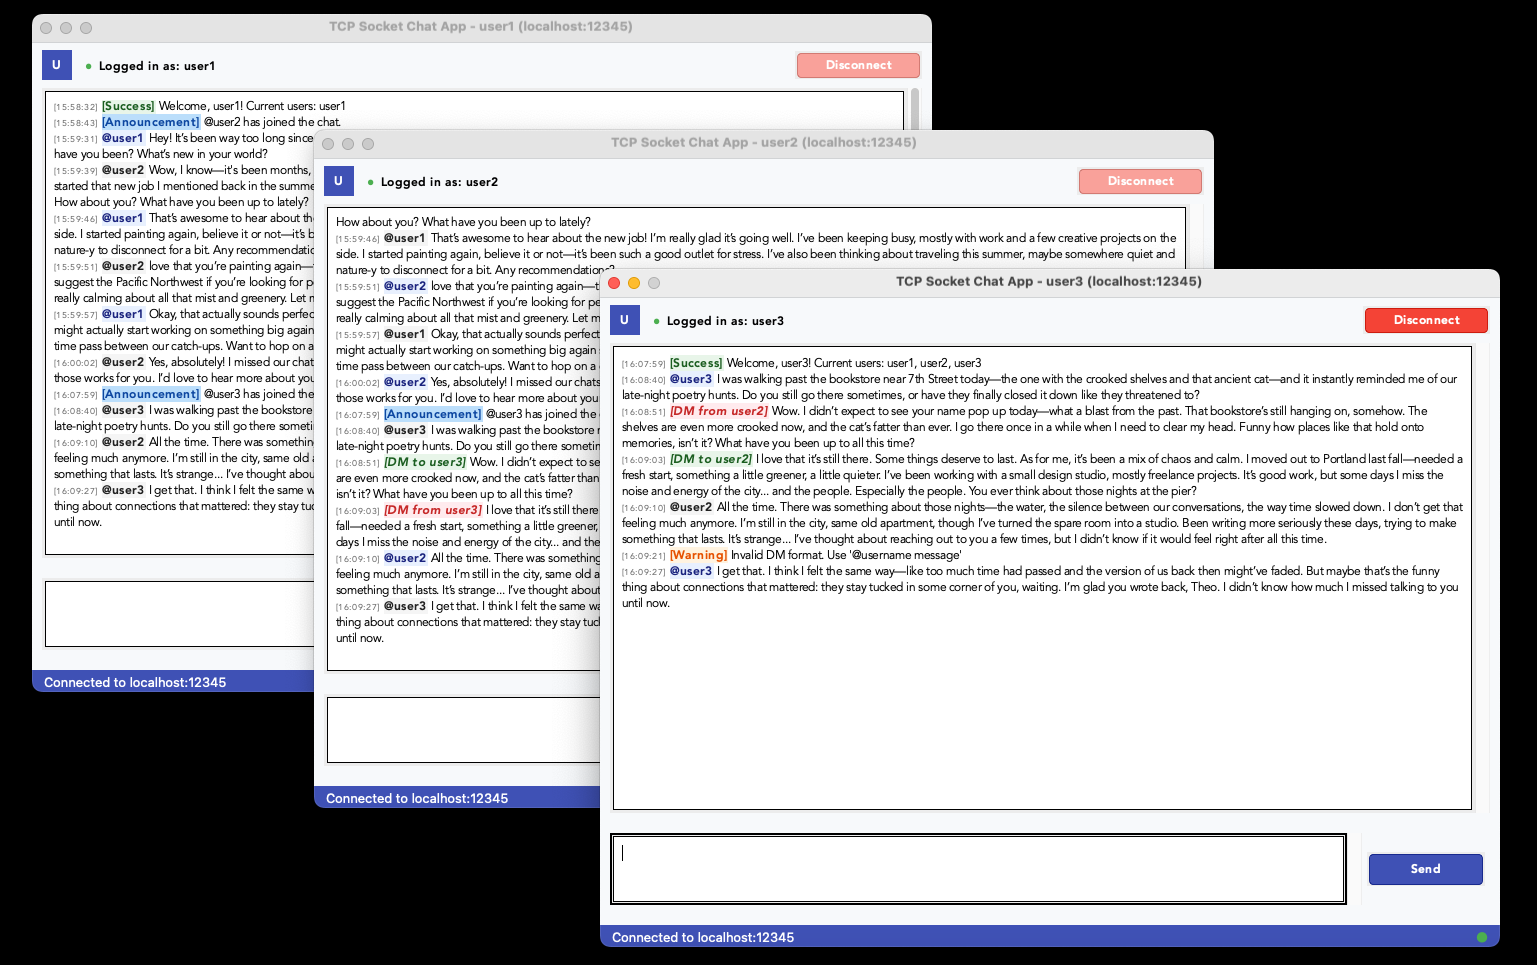
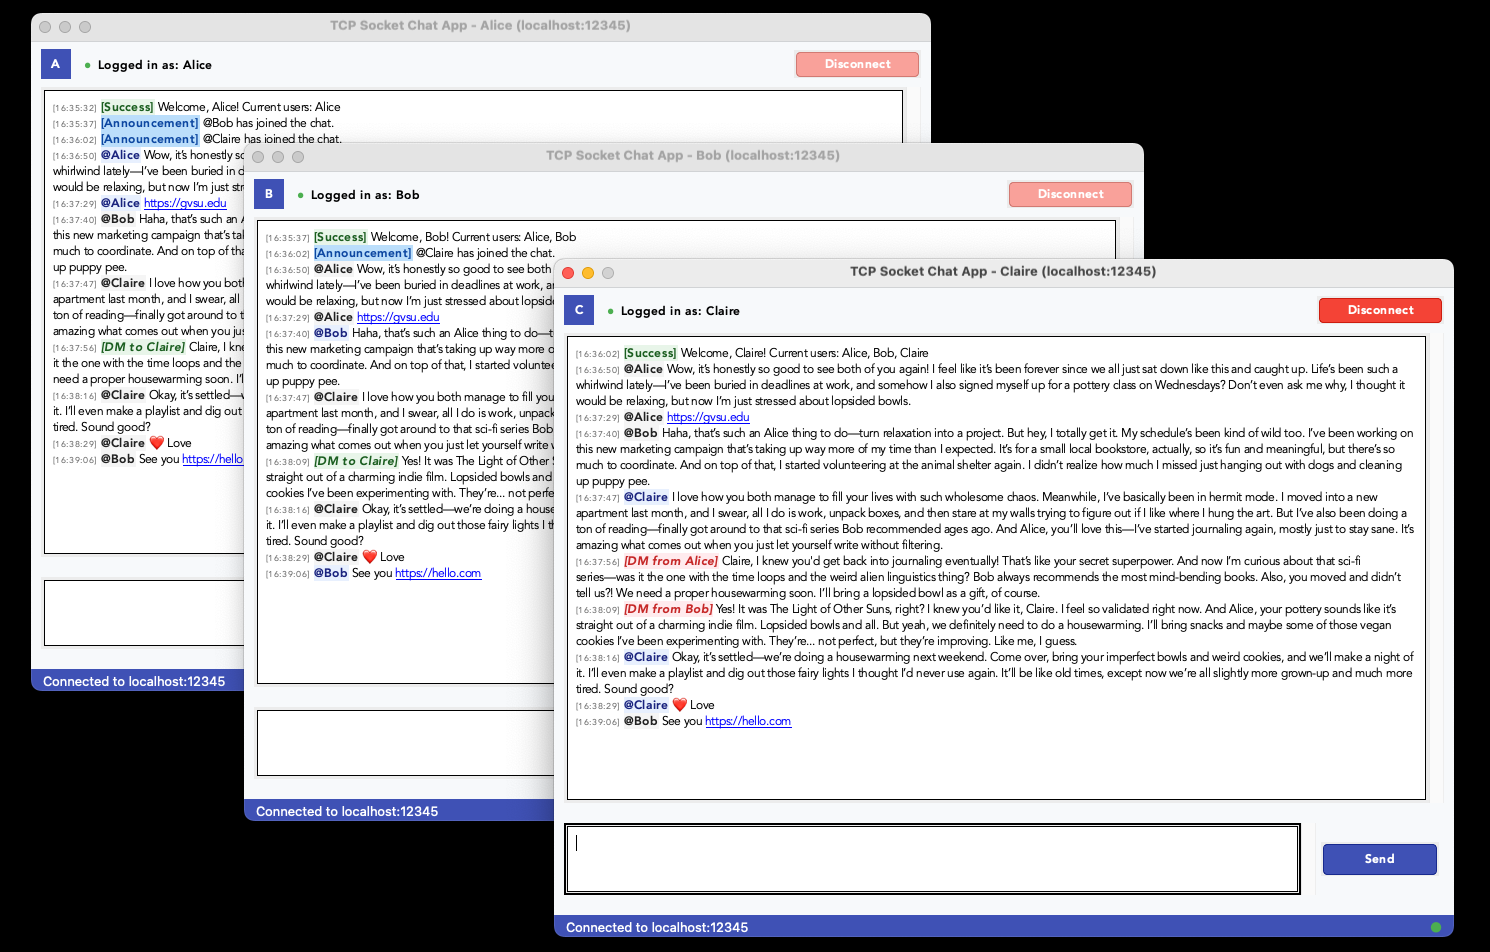
update UI and documentation

Changed region(s): [[0.0, 0.0, 0.9879, 1.0], [0.2161, 0.0, 0.4322, 0.0305]]

diff --git a/README.md b/README.md
@@ -1,6 +1,6 @@
 # TCP Socket Chat Application
 
-A multi-threaded socket-based group chat application built with Python and Tkinter, allowing multiple users to communicate through a central server.
+A lightweight, multi-threaded chat application built with TCP sockets that enables real-time group communication.
 
 ![Chat Application](screenshots/chat-interface.png)
 
@@ -9,7 +9,6 @@ A multi-threaded socket-based group chat application built with Python and Tkint
 -   [TCP Socket Chat Application](#tcp-socket-chat-application)
     -   [Table of Contents](#table-of-contents)
     -   [Features](#features)
-    -   [Requirements](#requirements)
     -   [Architecture Overview](#architecture-overview)
     -   [Server Design](#server-design)
         -   [Data Structures](#data-structures)
@@ -25,6 +24,7 @@ A multi-threaded socket-based group chat application built with Python and Tkint
         -   [3. Emoji Shortcode Support](#3-emoji-shortcode-support)
         -   [4. Direct Messaging](#4-direct-messaging)
     -   [Running the Application](#running-the-application)
+        -   [Requirements](#requirements)
         -   [Starting the Server](#starting-the-server)
         -   [Starting the Client](#starting-the-client)
         -   [SSH Tunneling (for remote connections)](#ssh-tunneling-for-remote-connections)
@@ -48,16 +48,6 @@ A multi-threaded socket-based group chat application built with Python and Tkint
 -   Emoji shortcode support (e.g., `:thumbsup:` → 👍)
 -   Status updates for user join/leave events
 -   Clean disconnection handling for both server and clients
-
-## Requirements
-
-1. Install the `uv` package manager [here](https://docs.astral.sh/uv/getting-started/installation/)
-2. Install python 3.13+ using `uv` [here](https://docs.astral.sh/uv/guides/install-python/)
-3. Install the required packages:
-
-    ```bash
-    uv pip install -r pyproject.toml
-    ```
 
 ## Architecture Overview
 
@@ -169,7 +159,7 @@ The client consists of several modular components:
 
     - Regular messages are displayed in the main chat area
     - Direct messages are highlighted and color-coded
-    - System messages (INFO | SUCCESS | ANNOUNCEMENT | WARNING | ERROR) are formatted differently
+    - System messages: `INFO` 📌 | `SUCCESS` ✅ | `ANNOUNCEMENT` 📢 | `WARNING` ⚠ | `ERROR` ❌
 
 > Note: Please refer to [`client/theme.py`](https://github.com/minhtran241/tcp-socket-chat/blob/main/client/theme.py) for the complete list of message types and their formatting.
 
@@ -222,6 +212,16 @@ The client consists of several modular components:
 -   Confirmation messages for sender
 
 ## Running the Application
+
+### Requirements
+
+1. Install the `uv` package manager [here](https://docs.astral.sh/uv/getting-started/installation/)
+2. Install python 3.13+ using `uv` [here](https://docs.astral.sh/uv/guides/install-python/)
+3. Install the required packages:
+
+    ```bash
+    uv pip install -r pyproject.toml
+    ```
 
 ### Starting the Server
 
@@ -283,13 +283,13 @@ ssh -N -L 5000:localhost:5000 zzzzzzzz@eos20.cis.gvsu.edu &
 
 ### Challenges and Solutions
 
--   **Challenge**: Thread-safe client management
+-   **Challenge**: Thread-safe client management  
     **Solution**: Implemented mutex locks for shared data structures
 
--   **Challenge**: Handling unexpected disconnections
+-   **Challenge**: Handling unexpected disconnections  
     **Solution**: Added timeout detection and clean reconnection logic
 
--   **Challenge**: Real-time UI updates without blocking
+-   **Challenge**: Real-time UI updates without blocking  
     **Solution**: Used message queue and separate UI update timer
 
 ## License
